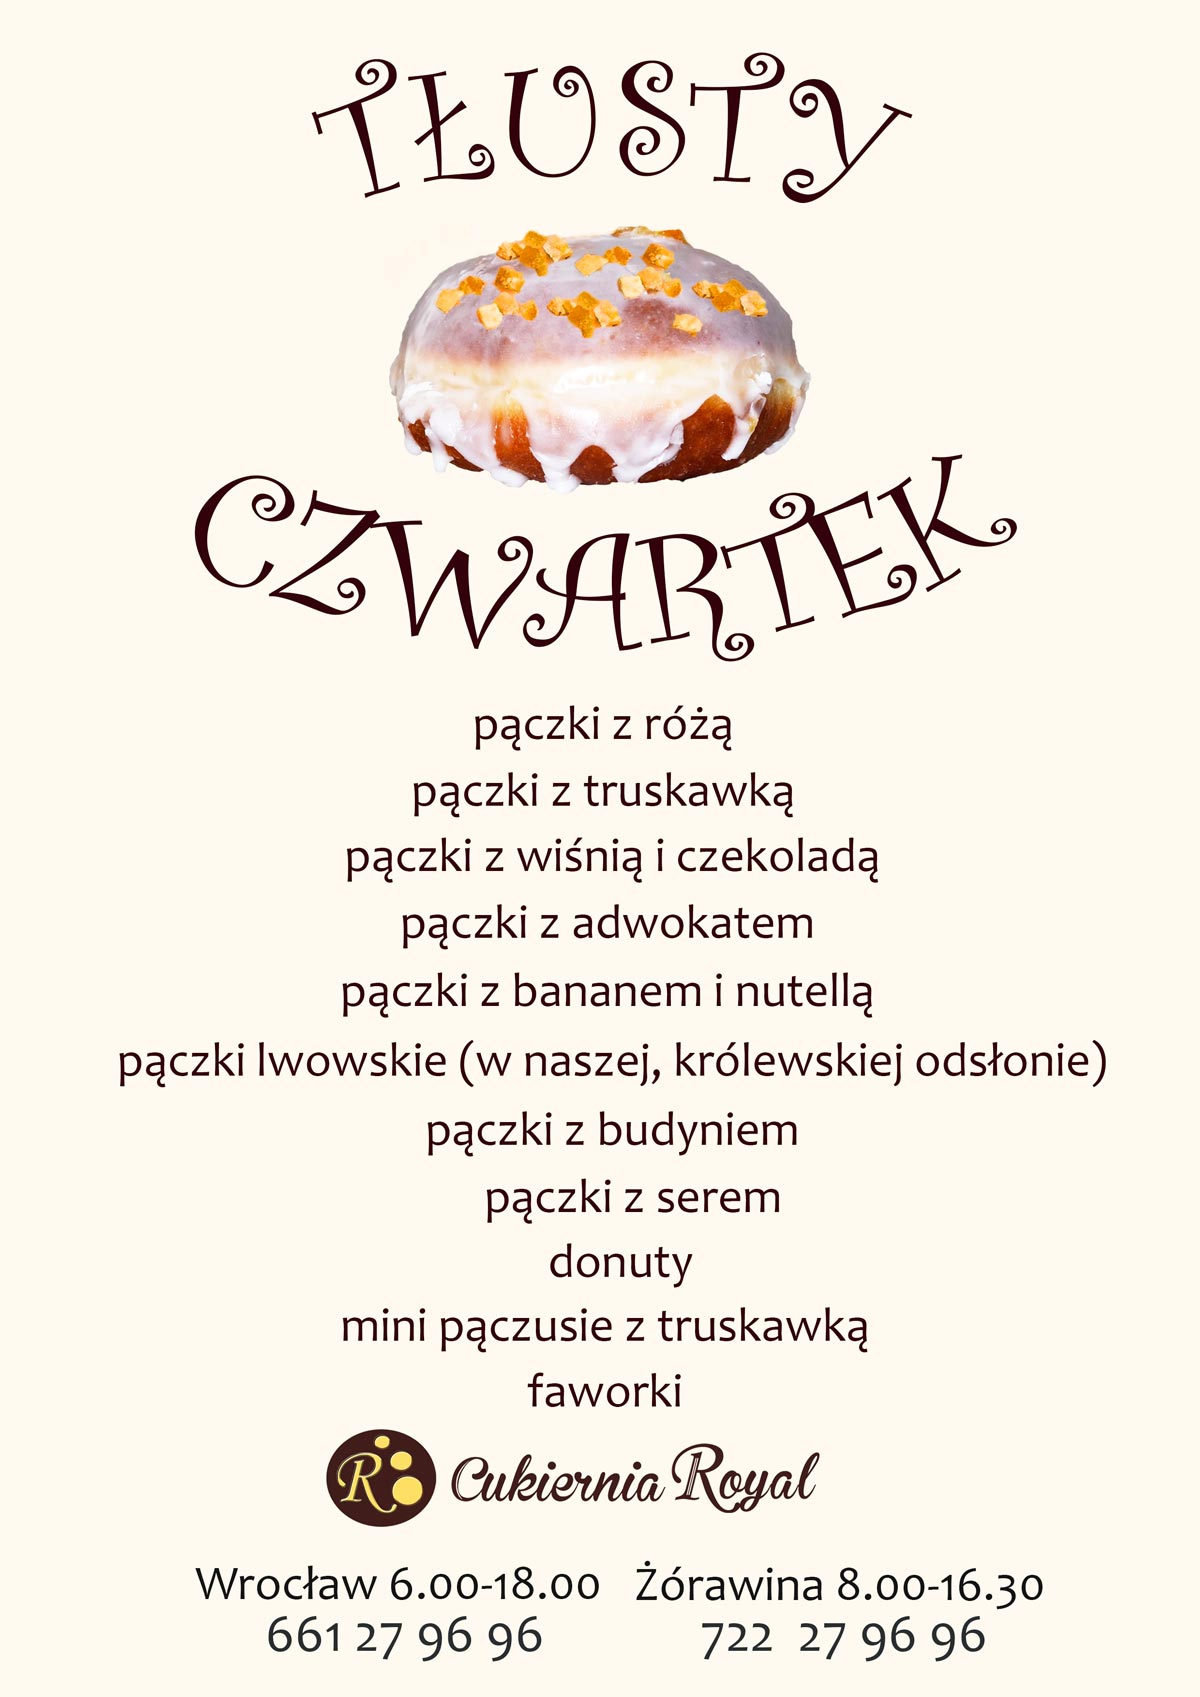
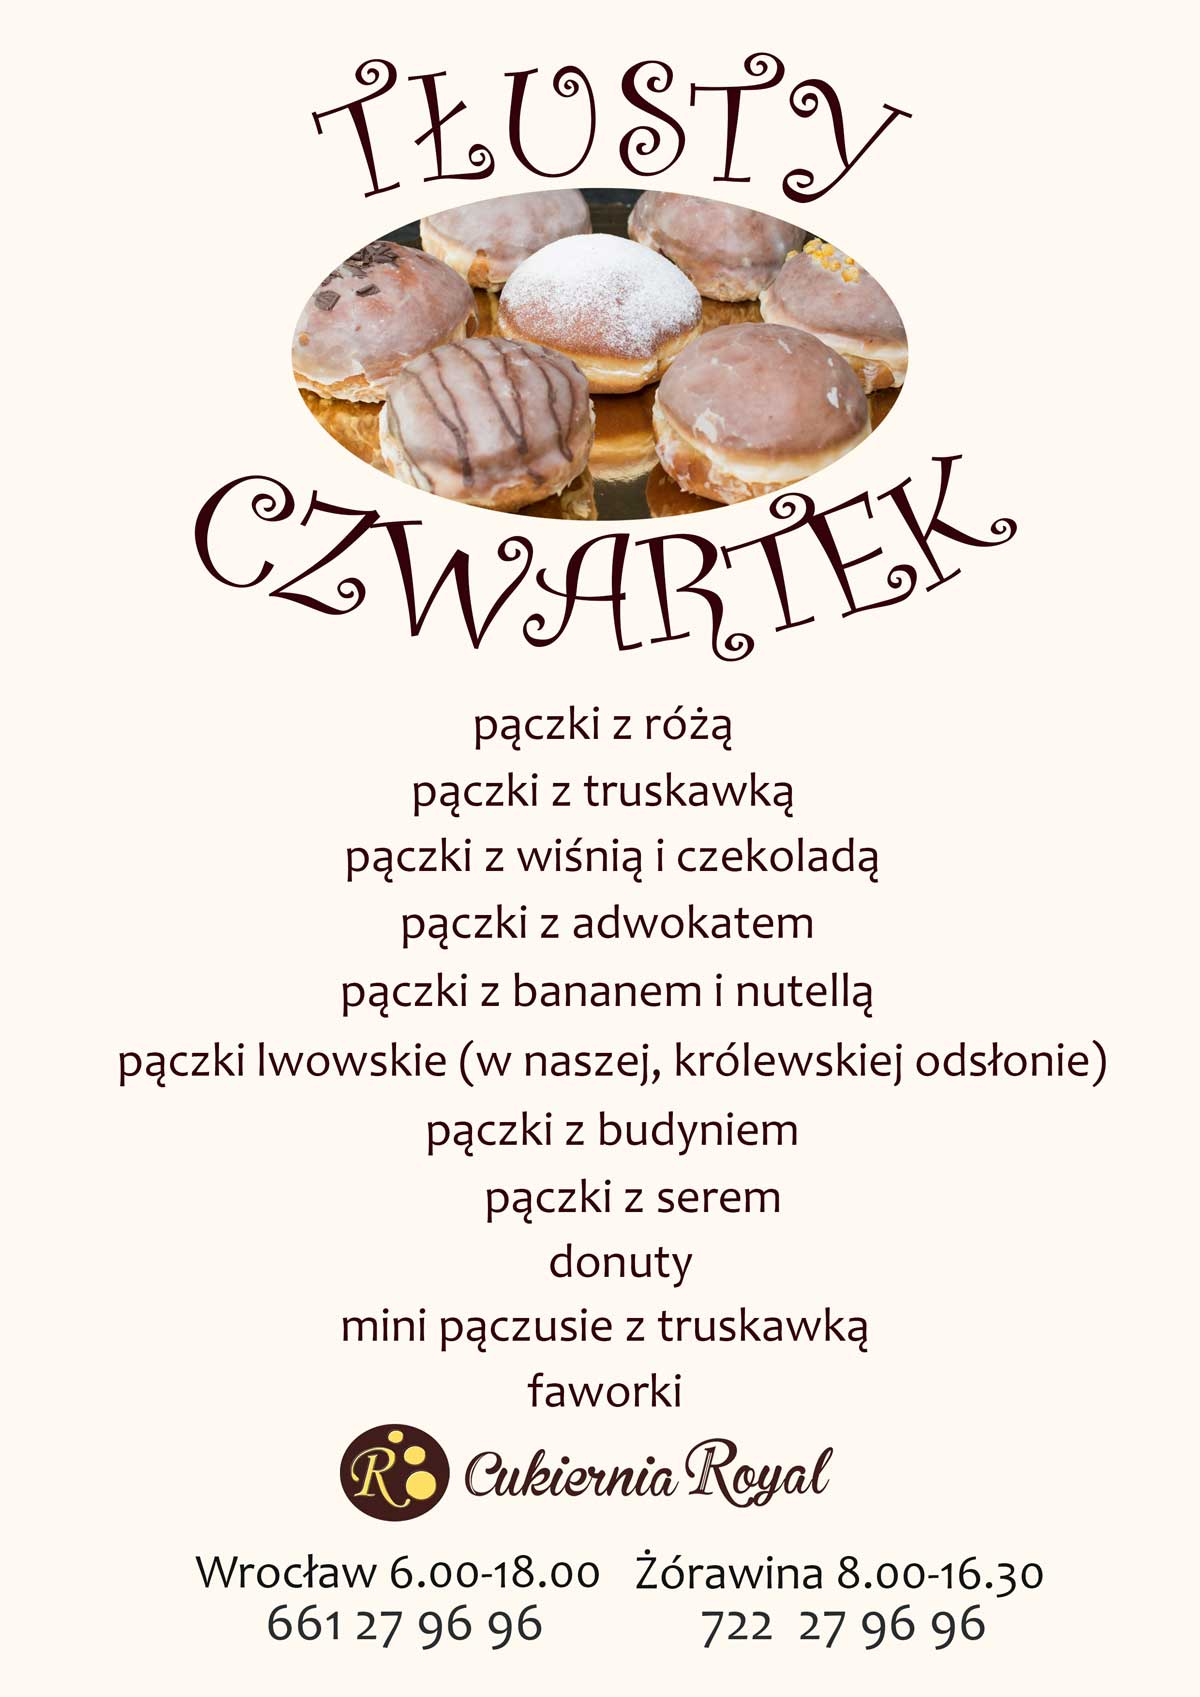
tlusty czwartek 2020

Changed region(s): [[0.2467, 0.0937, 0.7708, 0.3123], [0.1542, 0.812, 0.8633, 0.9994]]

diff --git a/index.html b/index.html
@@ -63,29 +63,42 @@
         </div>
     </div>-->
 
+    <div class="slider">
+        <div class="container slider__container"></div>
+        <div class="slider__content">
+            <div class="slider__box"><a href="oferta.html"><img src="/img/slider_tlusty_czwartek/paczek-z-truskawka.jpg" class="slider__img" alt="paczek z truskawka"></a></div>
+            <div class="slider__box"><a href="oferta.html"><img src="/img/slider_tlusty_czwartek/faworki.jpg" class="slider__img" alt="faworki"></a>
+            </div>
+            <div class="slider__box"><a href="oferta.html"><img src="/img/slider_tlusty_czwartek/donuty.jpg" class="slider__img" alt="donuty z posypkami"></a></div>
+            <div class="slider__box"><a href="oferta.html"><img src="/img/slider_tlusty_czwartek/paczek-banan&nutella.jpg" class="slider__img" alt="paczek banan i nutella"></a>
+            </div>
+        </div>
+    </div>
+
     <!--<div class="slider">
         <div class="container slider__container"></div>
         <div class="slider__content">
-            <div class="slider__box"><a href="oferta.html"><img src="/img/slider_tlusty_czwartek/paczek-z-truskawka.jpg" class="slider__img"></a></div>
-            <div class="slider__box"><a href="oferta.html"><img src="/img/slider_tlusty_czwartek/faworki.jpg" class="slider__img"></a>
-            </div>
-            <div class="slider__box"><a href="oferta.html"><img src="/img/slider_tlusty_czwartek/donuty.jpg" class="slider__img"></a></div>
-            <div class="slider__box"><a href="oferta.html"><img src="/img/slider_tlusty_czwartek/paczek-banan&nutella.jpg" class="slider__img"></a>
-            </div>
+            <div class="slider__box"><a href="oferta.html"><img src="/img/slider_christmas/pierniczki-glowna.jpg" alt="pierniczki-z-czekolada" class="slider__img"></a></div>
+            <div class="slider__box"><a href="oferta.html"><img src="/img/slider_christmas/keks.jpg" alt="keks" class="slider__img"></a></div>
+            <div class="slider__box"><a href="oferta.html"><img src="/img/slider_christmas/makowiec.jpg" alt="makowiec" class="slider__img"></a></div>
+            <div class="slider__box"><a href="galeria.html"><img src="/img/slider_sweet/tort-oblany-czekolada-z-bezami.jpg" alt="tort oblany czekolada z bezami drip cake" class="slider__img"></a></div>
         </div>
     </div>-->
-    
-        <div class="slider">
+
+    <!--<div class="slider">
         <div class="container slider__container"></div>
         <div class="slider__content">
-            <div class="slider__box"><a href="oferta.html"><img src="/img/slider_sweet/rogale-bialy-mak.jpg" alt="rogale z bialym makiem" class="slider__img"></a></div>
-            <div class="slider__box"><a href="galeria.html"><img src="/img/slider_sweet/tort-oblany-czekolada-z-bezami.jpg" alt="tort oblany czekolada z bezami drip cake" class="slider__img"></a></div>
-            <div class="slider__box"><a href="galeria.html"><img src="/img/slider_sweet/tort-elegancki-urodzinowy.jpg" alt="elegancki tort urodzinowy" class="slider__img"></a>
+            <div class="slider__box"><a href="oferta.html"><img src="/img/slider_tlusty_czwartek/faworki.jpg" alt="faworki" class="slider__img"></a>
             </div>
-            <div class="slider__box"><a href="galeria.html"><img src="/img/slider_sweet/ciasteczka-z-ziarnami.jpg" alt="kruche ciastka z ziarnami" class="slider__img"></a></div>
+            <div class="slider__box"><a href="oferta.html"><img src="/img/slider_tlusty_czwartek/donuty.jpg" alt="donuty z posypkami" class="slider__img"></a></div>
+            <div class="slider__box"><a href="oferta.html"><img src="/img/slider/gasnica.jpg" alt="tort dla starazaka" class="slider__img"></a>
+            </div>
+            <div class="slider__box"><a href="oferta.html"><img src="/img/slider/ciastka-z-czekolada.jpg" alt="ciastka z czekolada i zorawina" class="slider__img"></a>
+            </div>
+            <div class="slider__box"><a href="galeria.html"><img src="/img/slider_sweet/tort-oblany-czekolada-z-bezami.jpg" alt="tort oblany czekolada z bezami drip cake" class="slider__img"></a></div>
         </div>
-    </div>
-    
+    </div>-->
+
     <section class="about">
         <div class="container about__container">
             <div class="about__wrapper">

diff --git a/oferta.html b/oferta.html
@@ -33,27 +33,21 @@
     <main class="main-content">
         <section class="offer">
             <div class="container offer__container">
-                <!--<h1 class="head head--padding">Oferta świąteczna</h1>
-                <h2 class="head head--christmas">Zamówienia przyjmujemy do 16 grudnia.</h2>
-                <p class="offer__text">Poniżej prezentujemy naszą ofertę (po kliknięciu na obrazek, oferta otworzy się w nowym oknie)</p>
-                <div class="container offer__container offer__photos">
-                    <a href="/img/Cukiernia-Royal-oferta-swiateczna2018.jpg" target="_blank" class="offer__link">
-                   <img src="/img/Cukiernia-Royal-oferta-swiateczna2018.jpg" alt="Cukiernia-Royal-oferta-swiateczna2018" class="offer__photo"></a>
-                    <a href="img/Cukiernia-Royal-Garmazerka-Wigilia2018.jpg" target="_blank" class="offer__link">
-                    <img src="/img/Cukiernia-Royal-Garmazerka-Wigilia2018.jpg" alt="Cukiernia-Royal-Garmazerka-Wigilia2018" class="offer__photo"></a></div>-->
-
-                <!--<h1 class="head head--padding">Oferta pączków na Tłusty Czwartek</h1>
+            
+                <!--TŁUSTY CZWARTEK-->
+                <h1 class="head head--padding">Oferta pączków na Tłusty Czwartek</h1>
                 <p class="offer__text">Poniżej prezentujemy naszą ofertę (po kliknięciu na obrazek, oferta otworzy się w nowym oknie)</p>
                 <div class="container offer__container offer__photos">
                     <a href="/img/Cukiernia-Royal-tlusty-czwartek-plakat.jpg" target="_blank" class="offer__link">
-                   <img src="/img/Cukiernia-Royal-tlusty-czwartek-plakat.jpg" alt="Cukiernia-Royal-oferta-swiateczna2018" class="offer__photo"></a></div>-->
+                   <img src="/img/Cukiernia-Royal-tlusty-czwartek-plakat.jpg" alt="Cukiernia-Royal-oferta-swiateczna2018" class="offer__photo"></a></div>
                    
-                <h1 class="head head--padding">Rogale z Białym Makiem na 11 listopada</h1>
+                  
+                <!--BOŻE NARODZENIE
+                <h1 class="head head--padding">Oferta na Boże Narodzenie 2019</h1>
                 <p class="offer__text">Poniżej prezentujemy naszą ofertę (po kliknięciu na obrazek, oferta otworzy się w nowym oknie)</p>
                 <div class="container offer__container offer__photos">
-                    <a href="/img/rogale-plakat.jpg" target="_blank" class="offer__link">
-                   <img src="/img/rogale-plakat.jpg" alt="oferta rogali z bialym makiem na 11 listopada" class="offer__photo"></a></div>
-
+                    <a href="/img/Cukiernia-Royal-Wigilia2019.jpg" target="_blank" class="offer__link">
+                   <img src="/img/Cukiernia-Royal-Wigilia2019.jpg" alt="oferta rogali z bialym makiem na 11 listopada" class="offer__photo"></a></div>-->
 
                 <h1 class="head head--padding">Oferta tortów</h1>
                 <p class="offer__main-text">Kluczowym elementem naszej produkcji jest jej wcześniejsze zaplanowanie. <br>Dlatego bardzo prosimy o <u>składanie zamówień z wyprzedzeniem</u> 5 dni roboczych (dotyczy tortów artystycznych, indywidualnych, royal, bezowy jak i większej ilości ciast) lub min. 2 dni roboczych w przypadku tortów klasycznych. Sprawdź, <a href="jakzamawiac.html" class="offer__blink">Jak złożyć zamówienie?</a></p>

diff --git a/dzieciece.html b/dzieciece.html
@@ -46,6 +46,7 @@
                     <a class="lightbox" href="/img/gallery/torty-dzieciece/tort-auto-peppa-i-georg.jpg" data-littlelightbox-group="gallery" class="cake-gallery__wrapper-link"><img src="/img/gallery/torty-dzieciece/tort-auto-peppa-i-georg.jpg" alt="cukiernia royal wrocław" class="cake-gallery__wrapper-foto"></a>
                     <a class="lightbox" href="/img/gallery/torty-dzieciece/tort-kraina-lodu-olaf01.jpg" data-littlelightbox-group="gallery" class="cake-gallery__wrapper-link"><img src="/img/gallery/torty-dzieciece/tort-kraina-lodu-olaf01.jpg" alt="cukiernia royal wrocław" class="cake-gallery__wrapper-foto"></a>
                     <a class="lightbox" href="/img/gallery/torty-dzieciece/tort-buciki-roczek.jpg" data-littlelightbox-group="gallery" class="cake-gallery__wrapper-link"><img src="/img/gallery/torty-dzieciece/tort-buciki-roczek.jpg" alt="cukiernia royal wrocław" class="cake-gallery__wrapper-foto"></a>
+                    <a class="lightbox" href="/img/gallery/torty-klasyczne/tort-mis-krem-maslany.jpg" data-littlelightbox-group="gallery" class="cake-gallery__wrapper-link"><img src="/img/gallery/torty-klasyczne/tort-mis-krem-maslany.jpg" alt="" class="cake-gallery__wrapper-foto"></a>
                     <a class="lightbox" href="/img/gallery/torty-dzieciece/tort-dla-strazaka-strazak-sam.jpg" data-littlelightbox-group="gallery" class="cake-gallery__wrapper-link"><img src="/img/gallery/torty-dzieciece/tort-dla-strazaka-strazak-sam.jpg" alt="cukiernia royal wrocław" class="cake-gallery__wrapper-foto"></a>
                     <a class="lightbox" href="/img/gallery/torty-dzieciece/tort-elsa-plaskorzezba.jpg" data-littlelightbox-group="gallery" class="cake-gallery__wrapper-link"><img src="/img/gallery/torty-dzieciece/tort-elsa-plaskorzezba.jpg" alt="cukiernia royal wrocław" class="cake-gallery__wrapper-foto"></a>
                     <a class="lightbox" href="/img/gallery/torty-dzieciece/tort-furby.jpg" data-littlelightbox-group="gallery" class="cake-gallery__wrapper-link"><img src="/img/gallery/torty-dzieciece/tort-furby.jpg" alt="cukiernia royal wrocław" class="cake-gallery__wrapper-foto"></a>

diff --git a/klasyczne.html b/klasyczne.html
@@ -57,7 +57,6 @@
                     <a class="lightbox" href="/img/gallery/torty-klasyczne/naked-cake01.jpg" data-littlelightbox-group="gallery" class="cake-gallery__wrapper-link"><img src="/img/gallery/torty-klasyczne/naked-cake01.jpg" alt="" class="cake-gallery__wrapper-foto"></a>
                     <a class="lightbox" href="/img/gallery/torty-klasyczne/tort-kwiaty-maslane.jpg" data-littlelightbox-group="gallery" class="cake-gallery__wrapper-link"><img src="/img/gallery/torty-klasyczne/tort-kwiaty-maslane.jpg" alt="" class="cake-gallery__wrapper-foto"></a>
                     <a class="lightbox" href="/img/gallery/torty-klasyczne/tort-kwiaty-ma%C5%9Blane.jpg" data-littlelightbox-group="gallery" class="cake-gallery__wrapper-link"><img src="/img/gallery/torty-klasyczne/tort-kwiaty-ma%C5%9Blane.jpg" alt="" class="cake-gallery__wrapper-foto"></a>
-                    <a class="lightbox" href="/img/gallery/torty-klasyczne/tort-mis-krem-maslany.jpg" data-littlelightbox-group="gallery" class="cake-gallery__wrapper-link"><img src="/img/gallery/torty-klasyczne/tort-mis-krem-maslany.jpg" alt="" class="cake-gallery__wrapper-foto"></a>
                     <a class="lightbox" href="/img/gallery/torty-klasyczne/tort-tiramisu.jpg" data-littlelightbox-group="gallery" class="cake-gallery__wrapper-link"><img src="/img/gallery/torty-klasyczne/tort-tiramisu.jpg" alt="" class="cake-gallery__wrapper-foto"></a>
                     <a class="lightbox" href="/img/gallery/torty-klasyczne/tort-w-czekoladzie.jpg" data-littlelightbox-group="gallery" class="cake-gallery__wrapper-link"><img src="/img/gallery/torty-klasyczne/tort-w-czekoladzie.jpg" alt="" class="cake-gallery__wrapper-foto"></a>
                     <a class="lightbox" href="/img/gallery/torty-klasyczne/zwierzatka-owocowe.jpg" data-littlelightbox-group="gallery" class="cake-gallery__wrapper-link"><img src="/img/gallery/torty-klasyczne/zwierzatka-owocowe.jpg" alt="" class="cake-gallery__wrapper-foto"></a>

diff --git a/kontakt.html b/kontakt.html
@@ -51,6 +51,9 @@
                                 <p>ul. Grota-Roweckiego 34</p>
                                 <p>52-219 Wrocław</p>
                                 <a href="tel:661279696" class="address-tel">661 27 96 96</a>
+                                <!--<h3 class="address">Świąteczne godziny otwarcia cukierni:</h3>
+                                <p>23.12 &nbsp;&nbsp;12.00-17.00</p>
+                                <p>24.12 &nbsp;&nbsp;8.00-11.00</p>-->
 
                             </div>
                         </div>
@@ -63,7 +66,10 @@
                                 <p>al. Niepodległości 56</p>
                                 <p>55-020 Żórawina</p>
                                 <a href="tel:722279696" class="address-tel">722 27 96 96</a>
-                                <h3 class="address">UWAGA! 11 listopada czynne 11-12</h3>
+                                <h3 class="address">Godziny otwarcia cukierni:</h3>
+                                <p>23.12 &nbsp;&nbsp;8.00-16.30</p>
+                                <p>sb &nbsp;&nbsp;8.00-13.00</p>
+                                <!--<h3 class="address">UWAGA! 11 listopada czynne 11-12</h3>-->
                             </div>
                         </div>
                     </li>
